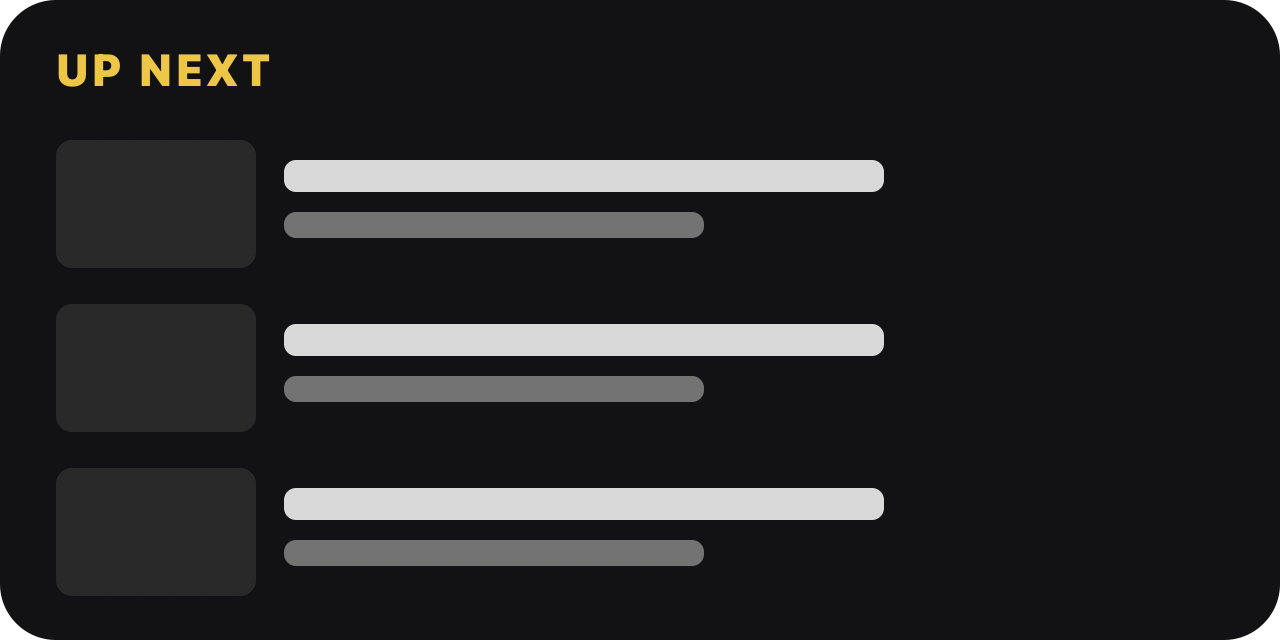
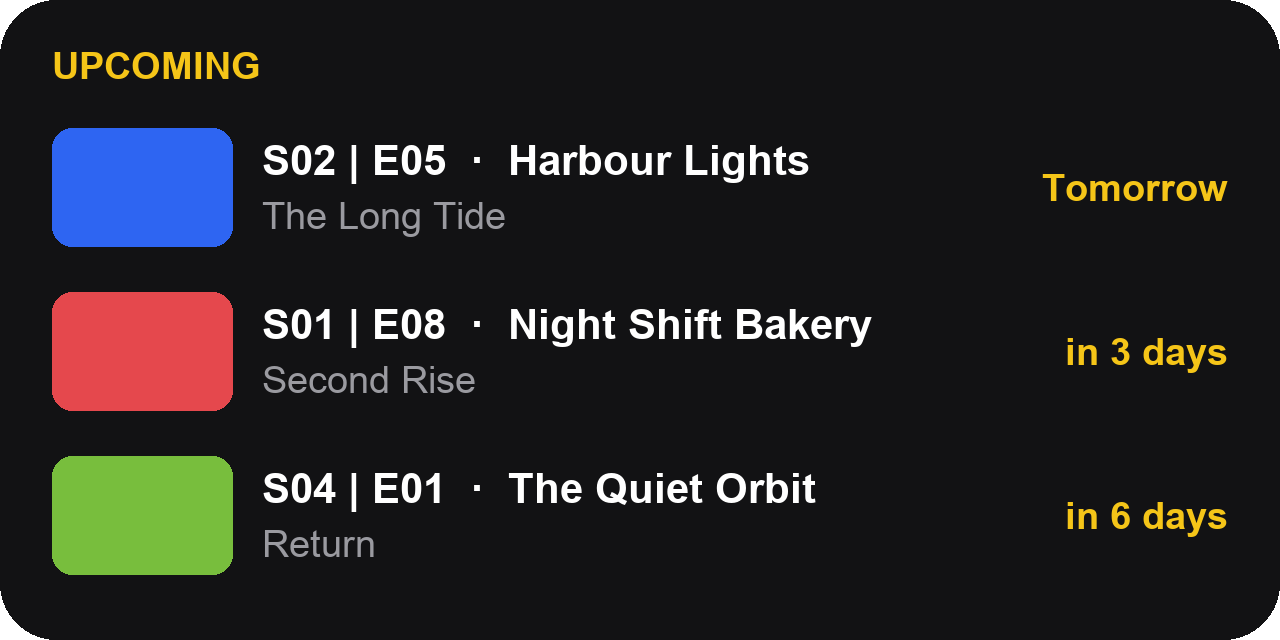
2.1.0: version, iOS build 102, What's New, the Upcoming preview

diff --git a/src/whats-new.tsx b/src/whats-new.tsx
@@ -34,6 +34,13 @@ const NOTES: Record<string, { icon: string; tint: string; key: LocaleKey; iosOnl
   // TV Time re-import line is the one thing those people most need to read.
   // No free-month row: the offer is switched on from the dashboard and shows
   // itself on the Profile when it is open (Mahmood, 28 Oct).
+  '2.1.0': [
+    { icon: '🖼', tint: '#3E8BFF', key: 'whatsNew.v210.cover', to: '/edit-profile' },
+    { icon: '🏅', tint: ACCENTS.yellow, key: 'whatsNew.v210.badges', to: '/stats' },
+    { icon: '📥', tint: '#9B7BFF', key: 'whatsNew.v210.imports' },
+    { icon: '📅', tint: '#FF7A1A', key: 'whatsNew.v210.upcoming' },
+    { icon: '🛠', tint: '#78BE3D', key: 'whatsNew.v210.fixes' },
+  ],
   '2.0.4': [
     { icon: '🧘', tint: '#78BE3D', key: 'whatsNew.v204.simpleView', to: '/settings?tab=app' },
     { icon: '📥', tint: '#3E8BFF', key: 'whatsNew.v203.imports', to: '/import' },

diff --git a/src/locales/keys.d.ts b/src/locales/keys.d.ts
@@ -2925,6 +2925,11 @@ export type LocaleKey =
   | "whatsNew.v203.imports"
   | "whatsNew.v203.puzzle"
   | "whatsNew.v204.simpleView"
+  | "whatsNew.v210.badges"
+  | "whatsNew.v210.cover"
+  | "whatsNew.v210.fixes"
+  | "whatsNew.v210.imports"
+  | "whatsNew.v210.upcoming"
   | "widgets.caughtUp"
   | "widgets.emptyHint"
   | "widgets.inDays"

diff --git a/CHANGELOG.md b/CHANGELOG.md
@@ -9,6 +9,7 @@ Play Console record rather than per-change.
 
 | Version | Android versionCode | iOS build | Status |
 |---|---|---|---|
+| 2.1.0 | 126 | 102 | **built 31 Oct 2026** — cover choosing fixed (live bug), TV Time badges, instant imports, Upcoming widget, the bell, free month dated for 1 December. |
 | 2.0.2 | 116 | 97 | **built 25 Oct 2026** — Simkl import that works on a real backup (shows, anime, films, anime films as films, memos as notes, dropped archived), a clear message for Simkl's CSV |
 | 2.0.1 | 113 | 96 | **built 25 Oct 2026** — iPhone Duo support (controls in the side strip, nothing under it or on the fold), Expo SDK 58, a wider profile on big screens, the ✎ writing page for private comments, and a Classic tab bar setting |
 | 1.7.1 | 98 | 77 | **built 14 Oct 2026** — a fix release: IMDb import brings series and rated episodes (resolved by tt id on TheTVDB), not only films; email sign-up finishes joining (11 users were left without a handle since 4 Oct), no false "Backup hasn't worked" after iOS cuts an upload short, sync polls every 20 s, lists no longer show a series as its TheTVDB number, privacy copy that admits Backup/Sync store the history, developer messages no longer open the chat, Test Lab robots not counted |
@@ -65,7 +66,7 @@ Play Console record rather than per-change.
 - **The emotion calendar explains its yellow:** "Watched, no feeling" joins the legend.
 - **Badges are real** (Mahmood, 31 Oct: the top gap in `design/referance/tvtimeVsopentv/GAPS.md`). `user_badge.csv` was never read, so earned badges were lost and every real library saw four emoji tiers and three literal zeros. Now an import keeps them (only ever adding), a library imported earlier recovers them once from its preserved export, and our export writes them back. Stats shows all fourteen app badges (unearned dimmed), watch and ratings badges with the show's poster, and each opens its detail page with Share. Art is ours, TV Time's medals are its own. Marathons counted on the phone only appear with no TV Time badges: bulk-marked imports turned a real 99 into 1,385. The Comment and Follow cards are gone: no export has any. Not built: the unlock moment, and new badges for someone already on TV Time's list.
 - **The bell, redone** (no spec was written; built from TV Time's screen, `design/referance/21-notifications.png`). Today / This week / Earlier headings, the person in bold, an icon on each avatar for what happened, unread rows tinted, and likes, replies and comments on one thing fold into one line per week ("Sara and 3 others liked your comment"), follows per day (`groupInbox`). Follow requests and messages never fold. Tap-through is unchanged. Still no badge, on purpose. Needs a member account to see the grouping; the archive half is plain.
-- **"Upcoming" home-screen widget, iOS and Android** (from a Bingers bug post, 29 Oct). The next episodes to air with a countdown, from the same cached air dates as the Upcoming tab (`upcomingEpisodes`, now one function for both, no fetch). The app writes the air date, not "3 days", so the count stays right: iOS has an entry per midnight for a week, Android re-renders on its 30-minute period. A row opens the episode; anything else opens the Upcoming tab (`opentv://shows?tab=upcoming`). Each widget has its own kind, so it cannot turn into another. Builds on iOS; not yet placed on a home screen on either platform. Android needs a new build for the app.json entry, and `preview-upcoming.png` is a copy of Up Next's until a real one is made.
+- **"Upcoming" home-screen widget, iOS and Android** (from a Bingers bug post, 29 Oct). The next episodes to air with a countdown, from the same cached air dates as the Upcoming tab (`upcomingEpisodes`, now one function for both, no fetch). The app writes the air date, not "3 days", so the count stays right: iOS has an entry per midnight for a week, Android re-renders on its 30-minute period. A row opens the episode; anything else opens the Upcoming tab (`opentv://shows?tab=upcoming`). Each widget has its own kind, so it cannot turn into another. Builds on iOS; not yet placed on a home screen on either platform. Android needs a new build for the app.json entry.
 
 - **Ideas board, our own** (Mahmood, 29 Oct, inspired by feedback.loomkeep.app / Quackback). PROPOSED, not agreed: build it on the existing Worker + D1 rather than host Quackback ($29–59/mo, no Italian/Turkish, needs Postgres) or Fider (a new VPS to run). Posts with Bug / Idea boards, one vote per account, statuses (Planned, In progress, Done), a page on theopentv.com and the same list in the app, sign-in with the app's own account, nine languages, moderation from the dashboard. Interim: a Discord forum channel. Research in `outreach/feedback-board-research-2026-10-29.md`.
 - **TV Time parity pass** (Mahmood, 28 Oct: "we are missing so much from TV Time"). First a written gap list, screen by screen, of what TV Time had that OpenTV does not (or does worse), ranked by how often refugees hit it; then fixes. Not started: the list comes first. (The 2.0.0 sizing pass in `design/referance/tvtimeVsopentv/PLAN.md` covers sizes only, not missing features.)

diff --git a/RELEASE-TESTS.md b/RELEASE-TESTS.md
@@ -38,18 +38,19 @@ Tick on a real iPhone and a real Android unless a line says otherwise.
 
 **Badges**
 - [ ] Library imported earlier: badges appear on opening Stats
-- [ ] A badge opens its page, Share works
+- [x] A badge opens its page (simulator, Marathoner; Share not confirmed)
 - [ ] Fresh library with no TV Time: counts make sense
 
 **Widget (needs a build)**
 - [ ] Upcoming placed on iOS and Android, countdown right, row opens the episode, elsewhere opens Upcoming
-- [ ] Android preview image is real, not Up Next's
+- [x] Android preview image is real (invented titles)
 
 **The rest**
 - [ ] The bell, with a member account: sections, grouping, unread tint, tap-through
 - [ ] Finished only on ended shows, Up to date on running ones
 - [ ] Emotion calendar legend has the yellow
-- [ ] Two rails at once on Profile, Explore, show About; pull-down still closes the show page
+- [x] Two rails at once on Profile (iPhone)
+- [ ] Two rails at once on Explore, show About; pull-down still closes the show page
 - [ ] Comments do not jump; memory fine on a big archive
 - [ ] Typing in a comment or modal survives
 - [ ] Modals on the Duo have no black band; side bar present (Xcode 27.1 build)
